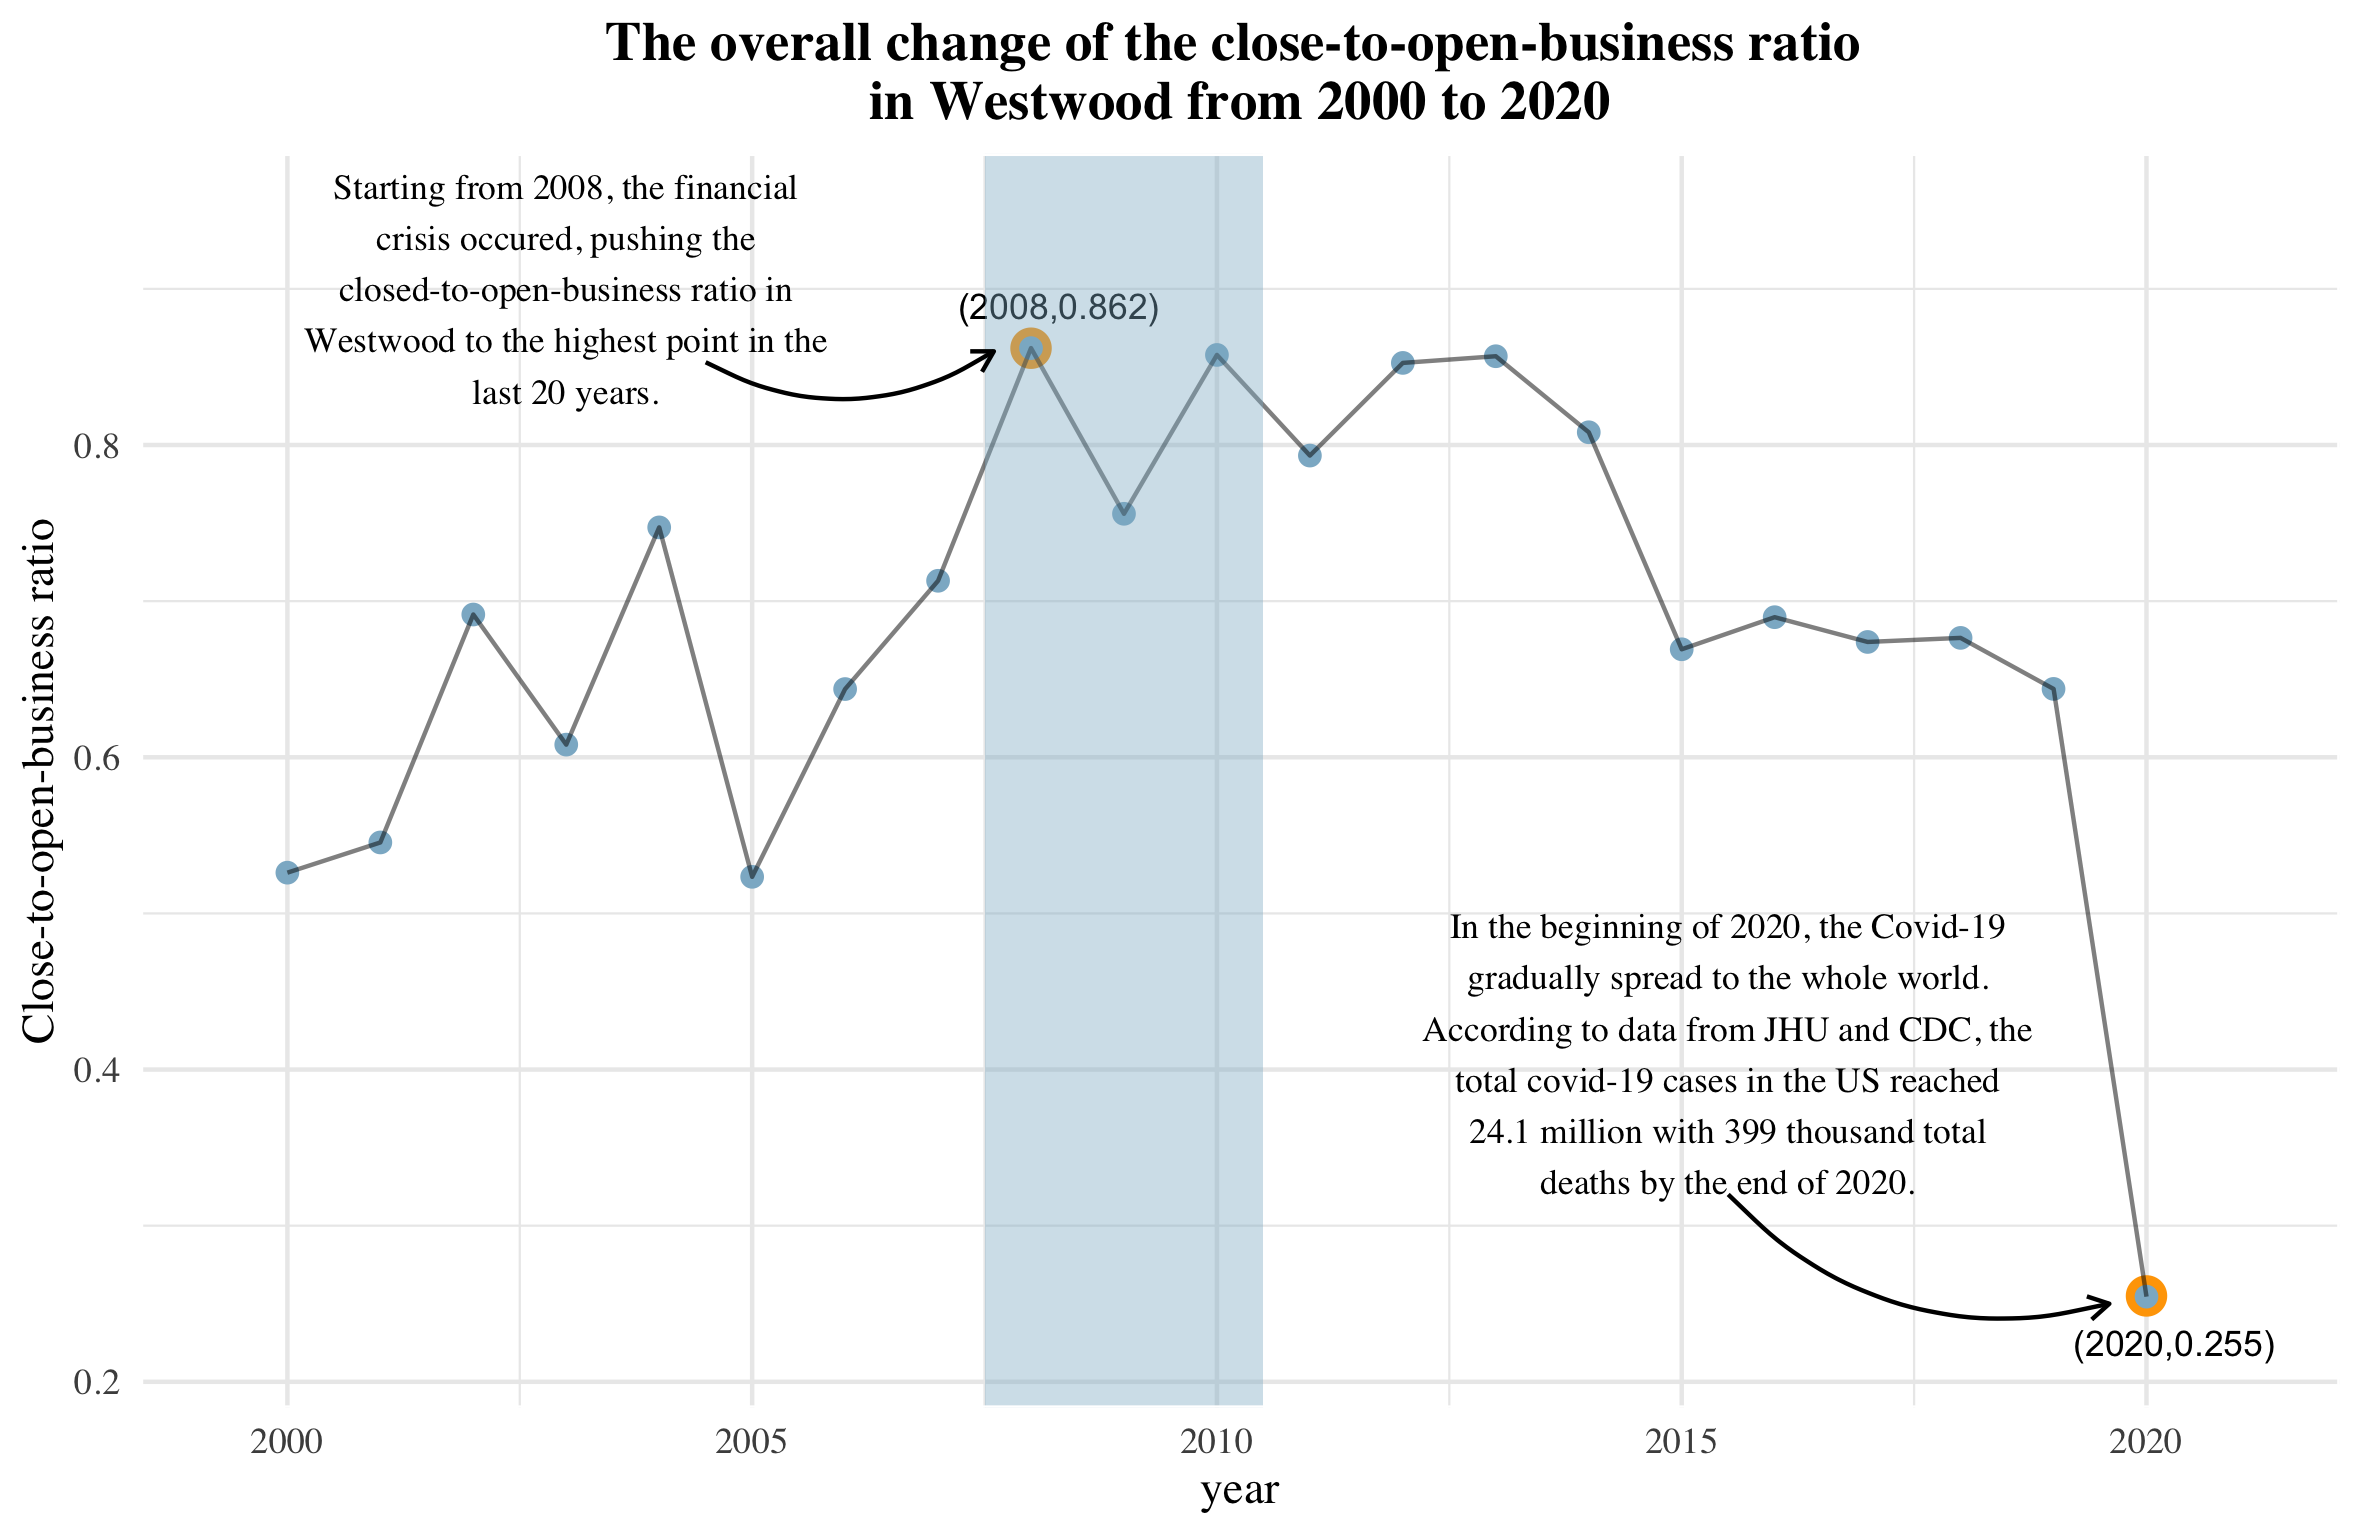
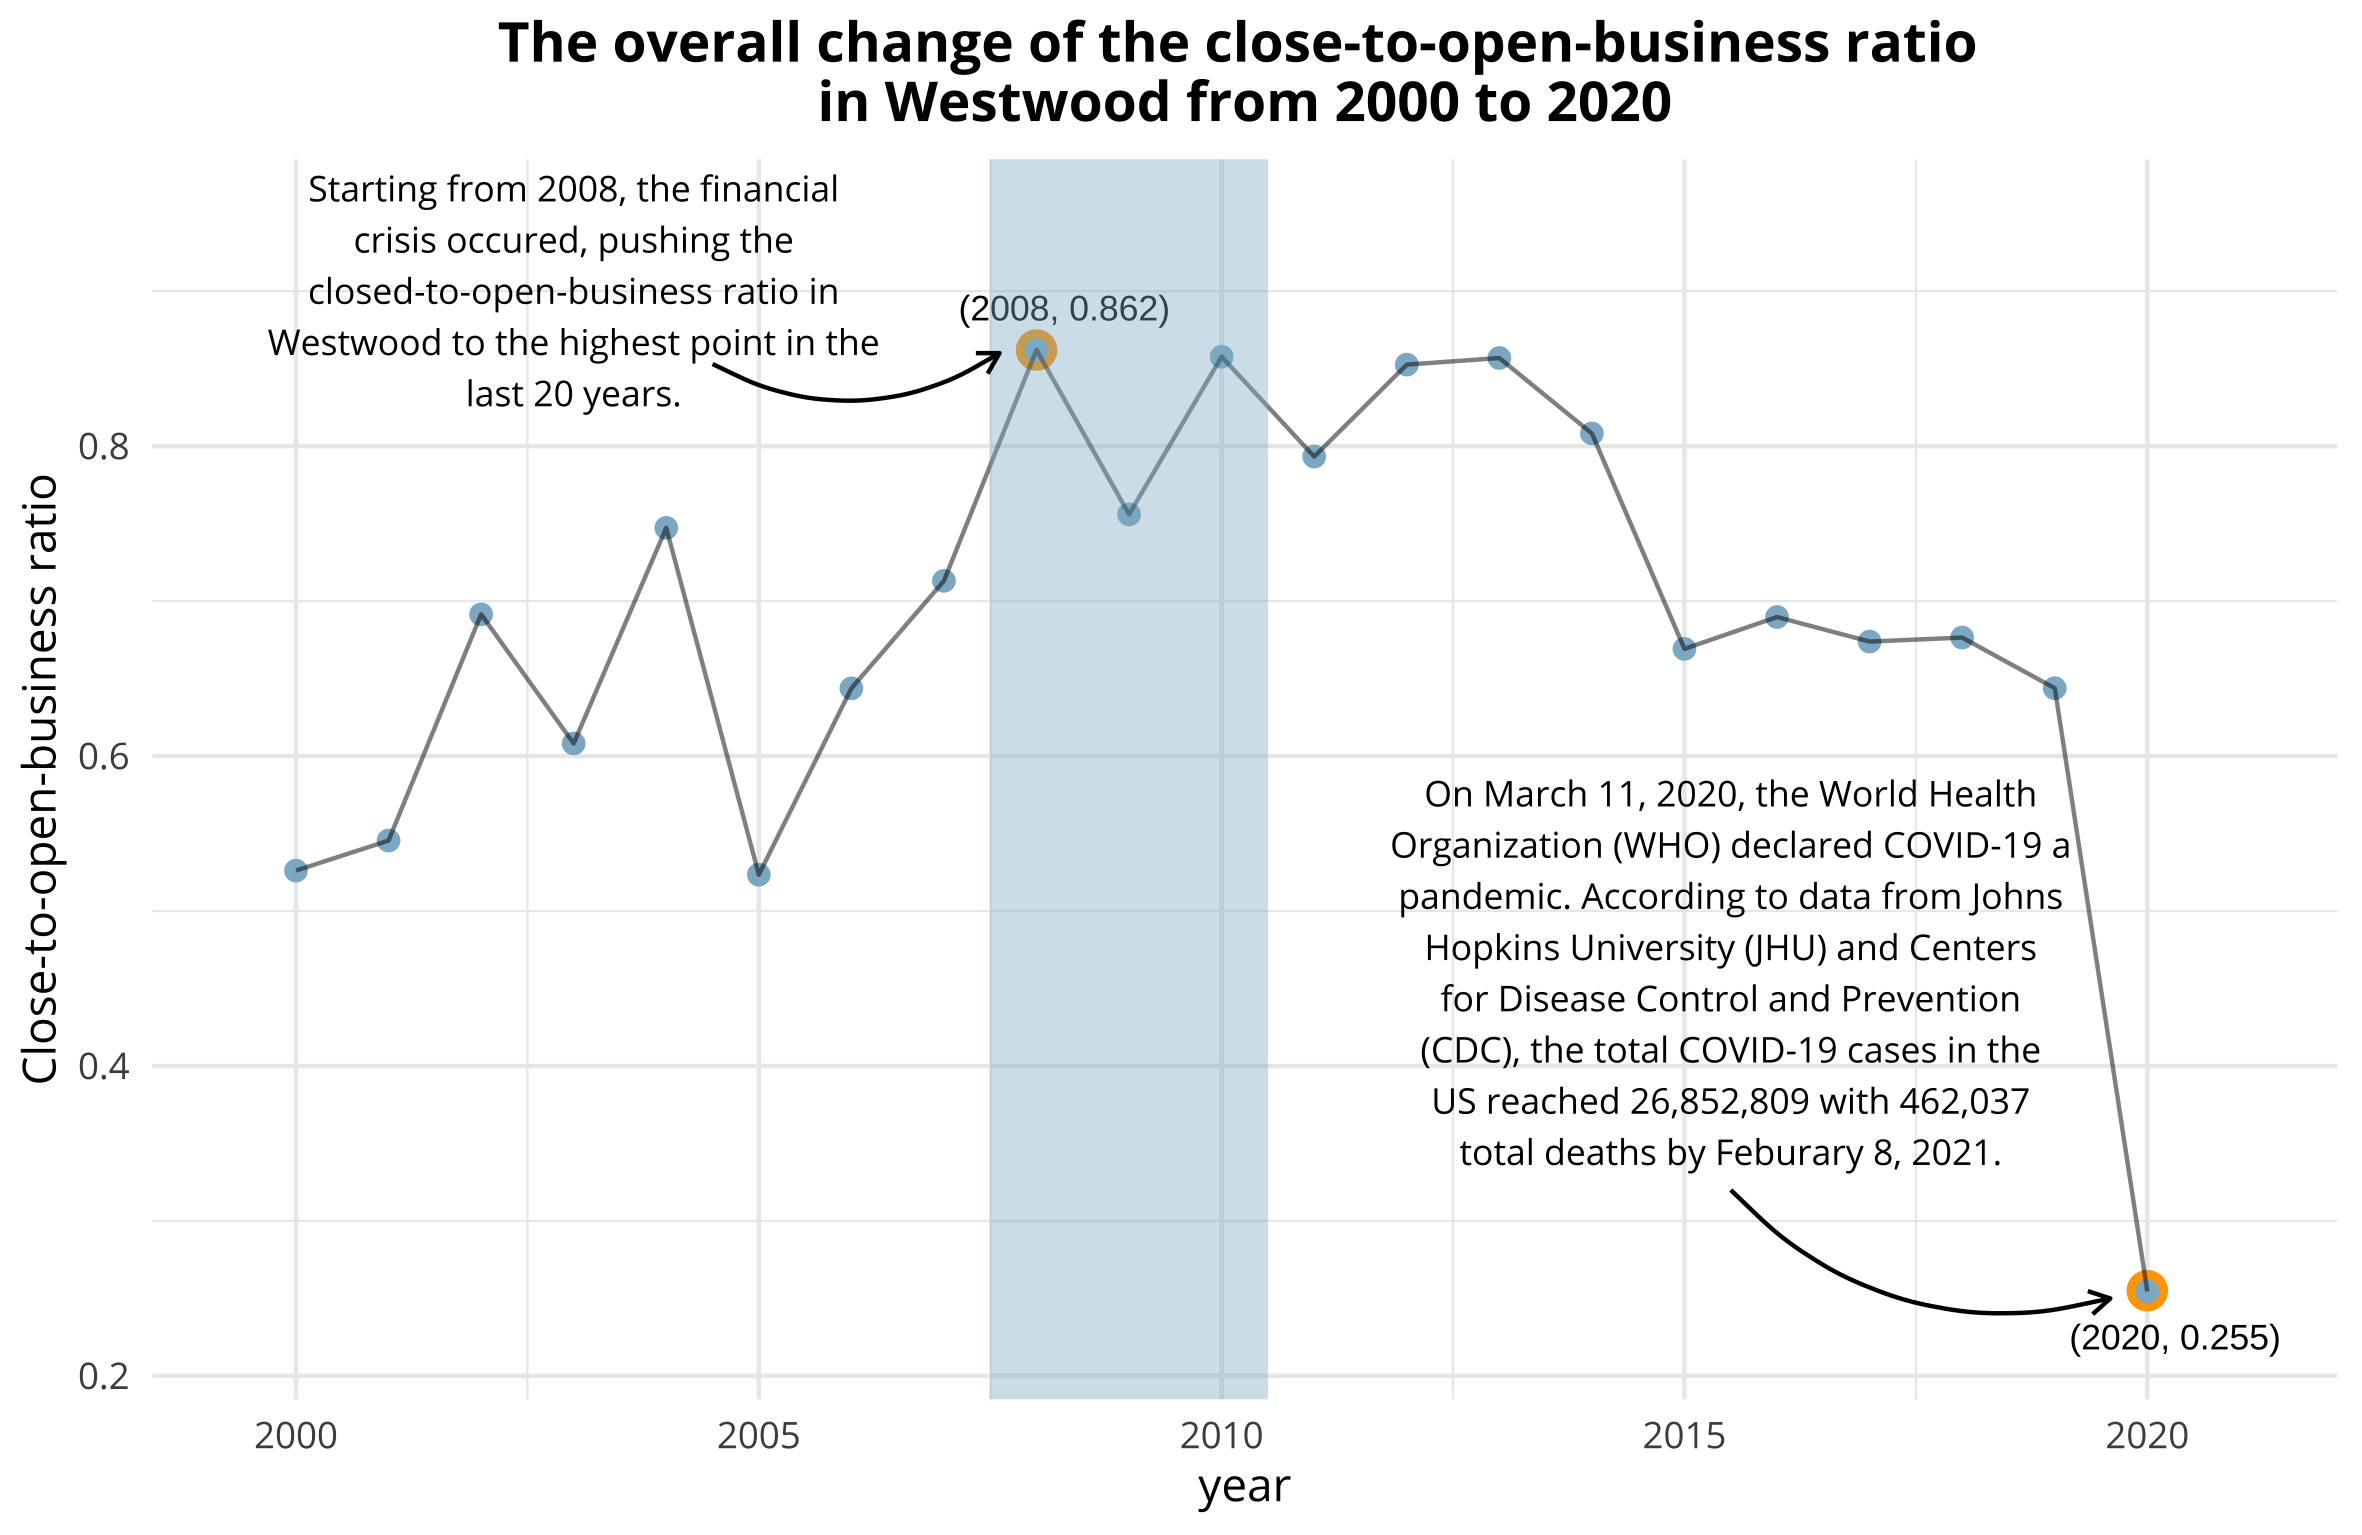
update of the viz

diff --git a/_posts/2020-11-24-westwood-business-turnover.md b/_posts/2020-11-24-westwood-business-turnover.md
@@ -70,22 +70,22 @@ The timeline plot here is made for those businesses that reported to close in 20
 
 To answer this question, we first labeled the businesses first opened before Jan 1, 2015 as the “old businesses” and those opened after this date as “new businesses”. One should not just reach a conclusion by simply comparing the closed number of new and old businesses. Instead, we calculated the ratio between the number of closed businesses in 2020 to the number of currently active businesses for both old and new businesses. This ratio is used to reflect the vulnerability of old and new businesses to the pandemic: the lower the ratio is, the more resistant the business is to COVID-19. The result shows for the new businesses, there are 2012 operating businesses together with 23 businesses closed this year; for old businesses, 3728 of them are still active, and 19 closed in 2020. That is to say, the ratio for the old businesses is 0.005097 while that for the new businesses is 0.01143. The ratio almost doubled for the new businesses. Thus, we conclude that the new businesses are more susceptible to covid-19.
 
-<img src="/img/posts/westwood-business/timeline.png" style="width:60vw" class = "center"/>
+<img src="/img/posts/westwood-business/timeline.png" style="width:53vw" class = "center"/>
 
 To further study how Westwood businesses are impacted by the Covid-19, we can take a look at how many businesses closed and opened during each month of 2018, 2019 and 2020.
 
 Based on the barplot, we can clearly see that compared to the previous two years, there are considerably fewer businesses closed and opened for each month of 2020. On average, 4.6 businesses closed and 14.7 businesses opened monthly in 2020; in 2019, the average numbers of opening and closing businesses were 31.8 and 20.7 respectively; in 2018, 37.1 businesses opened monthly and 25 businesses closed in each month. In addition, we noticed in the beginning and end of almost each year, there are usually many businesses opened and closed. According to Andrew Thomas, executive director of the Westwood Village Improvement Association, the explanation could be due to the way the leaseing contract works in Westwood or that people are generally more optimisitc about the future at the beginning of a new year.
 
-<img src="/img/posts/westwood-business/barplot.png" style="width:80vw" class = "center"/>
+<img src="/img/posts/westwood-business/barplot.png" style="width:63vw" class = "center"/>
 
 
 For a further analysis, we dug deeper to explore the data of Westwood businesses in the past 20 years. Here, we used the close-to-open-business ratio (ratio between the total number of businesses opened and closed in a specific year) to reflect the well-being of Westwood businesses. From the graph below, we see that the ratio is the highest around 2008 with a value of 0.86 when the Financial Crisis negatively impacted the national economy. However, the ratio of 2020 is 0.255 which is the lowest of the past 20 years. Following this logic, we conclude that the Westwood businesses are not hit as bad as the 2008 period.   
 
-<img src="/img/posts/westwood-business/close-open-ratio.png" style="width:80vw" class = "center"/>
+<img src="/img/posts/westwood-business/close-open-ratio.png" style="width:63vw" class = "center"/>
 
 However, sources from the Westwood Village Improvement Association suggests that business closures in 2020 were higher compared to previous years. Andrew Thomas states that the vacancy rate of storefronts in Westwood went from 22% in 2018 to 31% in 2020. The difference in the trends may have resulted from the fact that the data we used includes all businesses in Westwood, including independent businesses and those in UCLA while the data from the association does not. 
 
-We found out the top 5 business categories at Westwood and checked their number of active businesses in 2018, 2019 and 2020. We can observe that at the beginning of 2018 and 2019, there are huge boosts in the graph, which means fair amounts of businesses that fall in the five categories opened their business as the new year started. However, in 2020, due to the pandemic, less companies chose to do so. The top 5 business categories are: Independent artists, writers, & performers, All other personal services, All other professional, scientific, & technical services, Management, scientific, & technical consulting services, and Lessors of real estate (including mini warehouses & self-storage units)Independent artists, writers, & performers include companies that produce films and animation, such as “Noise Nest Animation”. All other personal services include tourist and cleaning companies. All other professional, scientific include consulting firms. (***We think this part is a little redundant and similar to what we have analyzed above: subject to deletion if you want.***)
+We found out the top 5 business categories at Westwood and checked their number of active businesses in 2018, 2019 and 2020. We can observe that at the beginning of 2018 and 2019, there are huge boosts in the graph, which means fair amounts of businesses that fall in the five categories opened their business as the new year started. However, in 2020, due to the pandemic, less companies chose to do so. The top 5 business categories are: Independent artists, writers, & performers, All other personal services, All other professional, scientific, & technical services, Management, scientific, & technical consulting services, and Lessors of real estate (including mini warehouses & self-storage units)Independent artists, writers, & performers include companies that produce films and animation, such as “Noise Nest Animation”. All other personal services include tourist and cleaning companies. All other professional, scientific include consulting firms. (***We think this part is a little redundant and similar to what we have analyzed above***)
 <img src="/img/posts/westwood-business/gif.gif" style="width:80vw" class = "center"/>
 
 
